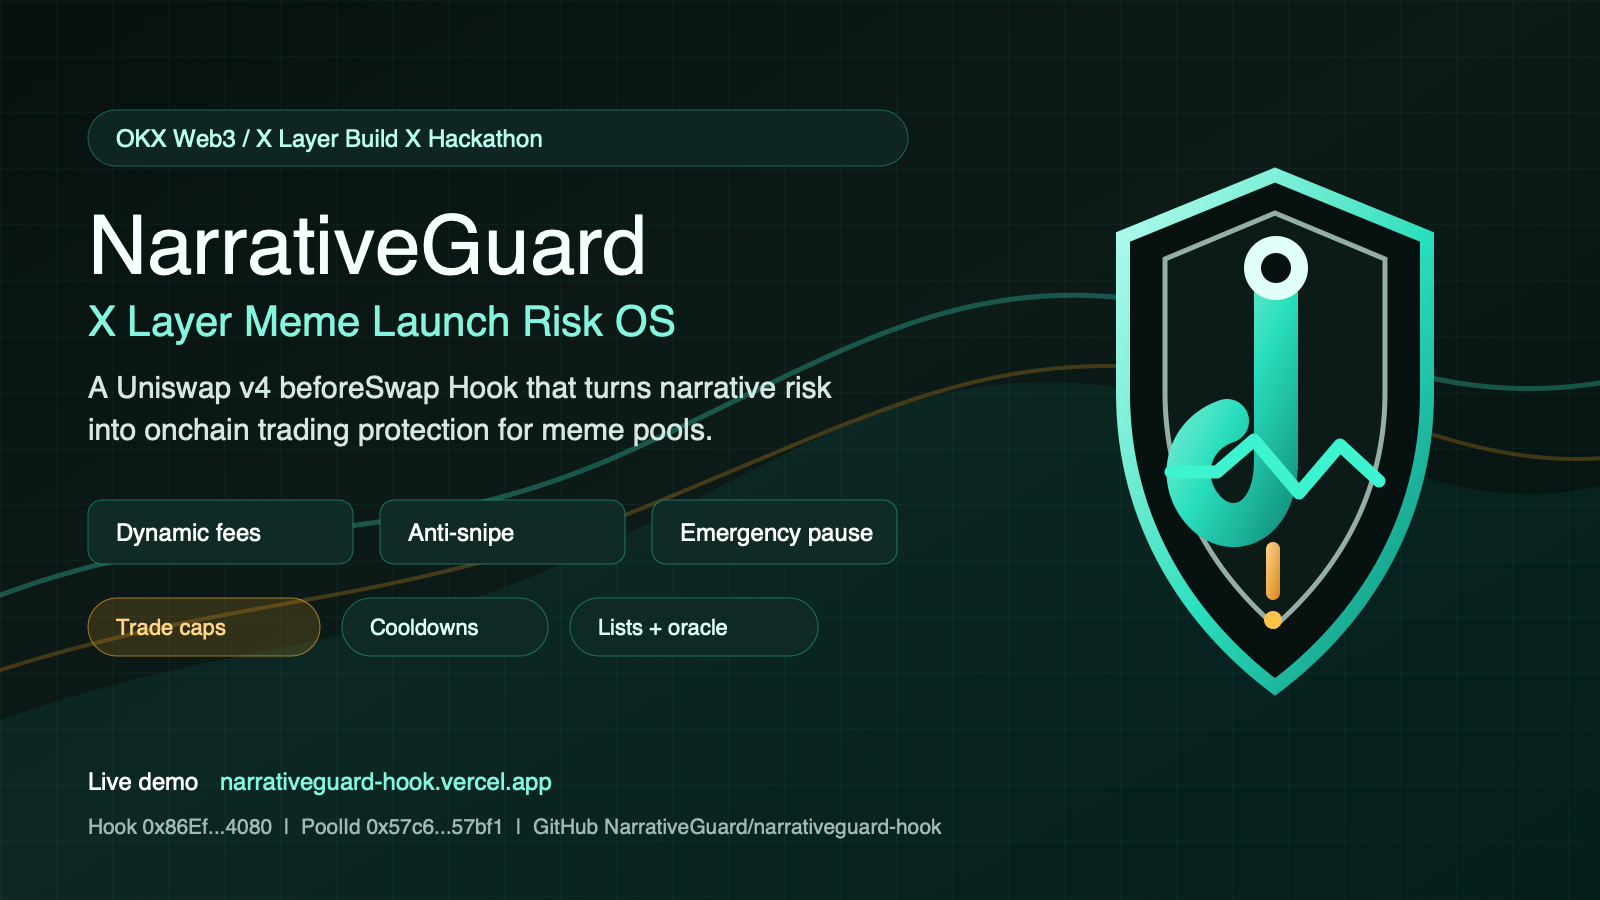
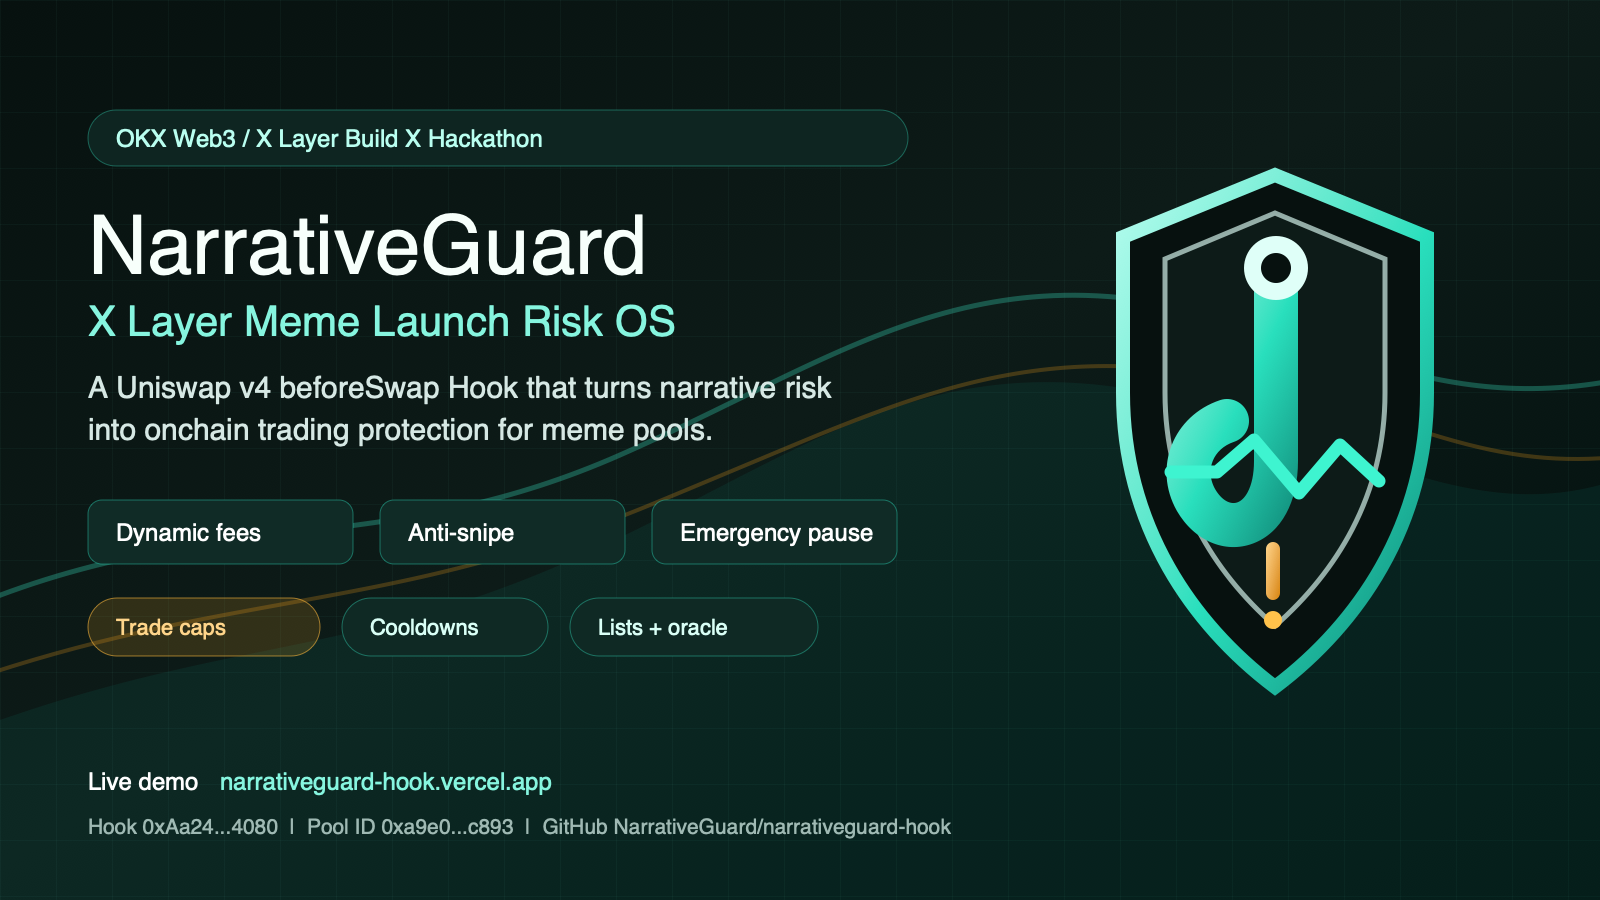
Update verified X Layer deployment

Changed region(s): [[0.0938, 0.9022, 0.5938, 0.9333]]

diff --git a/frontend/src/DeployPanel.jsx b/frontend/src/DeployPanel.jsx
@@ -84,13 +84,13 @@ const chains = {
 
 const CURRENT_XLAYER_DEPLOYMENT = {
   poolManager: "0x360E68faCcca8cA495c1B759Fd9EEe466db9FB32",
-  hook: "0x86Ef9197Bde5Dd40352D0a58589b1772376B4080",
+  hook: "0xAa242C1c9Dac355D6a66eA165E3Dfa96D0924080",
   demoToken0: "0x6213da9f111e2768fed4bf4875fa50001b7304ff",
   demoToken1: "0xb23f8a79e29113dc41e41cc75261713e5ffb1f0e",
[2 lines of base64/hex data omitted]
   riskOracle: "0xd87b33516ecb2ce135c1f99f5b5c8ec67cf235c4",
[4 lines of base64/hex data omitted]
 };
 
 function shortAddress(address) {

diff --git a/docs/XLAYER_MAINNET_DEPLOYMENT.md b/docs/XLAYER_MAINNET_DEPLOYMENT.md
@@ -1,26 +1,24 @@
 # X Layer Mainnet Deployment
 
-Deployment time: `2026-05-26T04:40:24.868Z`
+Deployment time: `2026-05-27T12:36:25.809Z`
 
 Network: X Layer mainnet  
 Chain ID: `196`
 
 Status: configured live demo deployment. The Hook below has code on X Layer, its policy is configured for the PoolId below, and the v4 pool initialization transaction succeeded.
 
-Important: a later CREATE2 Hook address was observed during QA at `0x517D1fB0Fc551B4622fC8d2815502e7D2d370080`, but that address is not the current public demo because no configured/initialized PoolId is recorded for it. Do not switch the frontend, README, or submission form to a new Hook address until the new Hook is configured and its v4 pool is initialized.
-
 ## Core Addresses
 
 Hook contract:
 
 ```text
-0x86Ef9197Bde5Dd40352D0a58589b1772376B4080
+0xAa242C1c9Dac355D6a66eA165E3Dfa96D0924080
 ```
 
 Explorer:
 
 ```text
-https://www.okx.com/web3/explorer/xlayer/address/0x86Ef9197Bde5Dd40352D0a58589b1772376B4080
+https://www.okx.com/web3/explorer/xlayer/address/0xAa242C1c9Dac355D6a66eA165E3Dfa96D0924080
 ```
 
 Uniswap v4 PoolManager:
@@ -38,7 +36,7 @@ https://www.okx.com/web3/explorer/xlayer/address/0x360E68faCcca8cA495c1B759Fd9EE
 V4 PoolId:
 
 ```text
[2 lines of base64/hex data omitted]
 ```
 
 Uniswap v4 pools live inside PoolManager storage and are identified by `PoolId`, not by a separate pool contract address.
@@ -48,67 +46,74 @@ Uniswap v4 pools live inside PoolManager storage and are identified by `PoolId`,
 Token0:
 
 ```text
-0x6213da9f111e2768fed4bf4875fa50001b7304ff
+0x6213da9f111E2768FEd4BF4875fA50001B7304FF
 ```
 
 Token1:
 
 ```text
-0xb23f8a79e29113dc41e41cc75261713e5ffb1f0e
+0xb23f8a79e29113Dc41E41cC75261713e5fFb1f0E
 ```
 
 ## Transactions
 
-Configure Hook policy:
+Deploy Hook:
 
 ```text
[2 lines of base64/hex data omitted]
 ```
 
 Explorer:
 
 ```text
-https://www.okx.com/web3/explorer/xlayer/tx/0xc18e335fe8d88c5d472485140dc9aeb667d91e981f543073916633711c4adac0
+https://www.okx.com/web3/explorer/xlayer/tx/0xff87423ccf7464befa20a6e5bd2f0f18fcb870dfe5bebcd966d21e952f558d2a
+```
+
+Configure Hook policy:
+
+```text
[1 lines of base64/hex data omitted]
+```
+
+Explorer:
+
+```text
+https://www.okx.com/web3/explorer/xlayer/tx/0x3212e9c6f91ffd770bceff07207446b279c0e8c3dd30d7d78c212b5548b84c15
 ```
 
 Initialize v4 pool:
 
 ```text
[2 lines of base64/hex data omitted]
 ```
 
 Explorer:
 
 ```text
-https://www.okx.com/web3/explorer/xlayer/tx/0xaa1cb8472066987c4e5763faba214a69fe2450339abb340baef179ef71917a44
+https://www.okx.com/web3/explorer/xlayer/tx/0xddf9684b8e64829b56836322d3a0c8acaedb2c0c7545d3eb3db49e2a281313a1
 ```
 
 ## RPC Verification
 
 Verified on X Layer RPC:
 
-- Hook code bytes: `8378`
+- Hook code bytes: `9221`
 - Token0 code bytes: `1880`
 - Token1 code bytes: `1880`
 - PoolManager code bytes: `24009`
 - Hook config for the PoolId: `enabled = true`
 - Hook risk score: `6500` bps
 - Hook quoted dynamic fee: `66050` pips
+- Hook deployment transaction status: `success`
 - Configure transaction status: `success`
 - Initialize transaction status: `success`
 
-## Hardened Candidate Observed During QA
+## Superseded QA Note
 
-This address has deployed code, but it is not the active demo/submission deployment:
+Earlier QA observed an unconfigured candidate Hook at:
 
 ```text
 0x517D1fB0Fc551B4622fC8d2815502e7D2d370080
 ```
 
-Deploy transaction:
-
-```text
[1 lines of base64/hex data omitted]
-```
-
-Current status: code present, owner/oracle/PoolManager checks readable, but the known public PoolId is not configured on this Hook. Activating it requires a wallet-signed `configurePool` transaction and a matching v4 pool initialization, followed by updates to `deployments/xlayerMainnet.json`, the frontend current-deployment constants, README, and submission docs.
+That address is not used for the public demo. The current Hook above is the refreshed deployment with successful Hook deploy, policy configuration, v4 pool initialization, and enabled PoolId verification.

diff --git a/docs/JUDGING_BRIEF.md b/docs/JUDGING_BRIEF.md
@@ -68,11 +68,11 @@ Completed deliverables:
 
 X Layer mainnet:
 
-- Hook: `0x86Ef9197Bde5Dd40352D0a58589b1772376B4080`
+- Hook: `0xAa242C1c9Dac355D6a66eA165E3Dfa96D0924080`
 - PoolManager: `0x360E68faCcca8cA495c1B759Fd9EEe466db9FB32`
[6 lines of base64/hex data omitted]
 
 The current public address is the configured live demo. Deployment scripts can refresh the public addresses from the current source if the final verification workflow requires exact latest-source bytecode matching, but the submitted address should only change after the new Hook is configured and its v4 pool is initialized.
 

diff --git a/docs/SUBMISSION.md b/docs/SUBMISSION.md
@@ -35,13 +35,13 @@ https://github.com/NarrativeGuard/narrativeguard-hook
 Hook:
 
 ```text
-0x86Ef9197Bde5Dd40352D0a58589b1772376B4080
+0xAa242C1c9Dac355D6a66eA165E3Dfa96D0924080
 ```
 
 V4 PoolId:
 
 ```text
[2 lines of base64/hex data omitted]
 ```
 
 PoolManager:
@@ -55,7 +55,7 @@ Deployment status: configured live demo. Use these addresses for the public demo
 Initialize pool tx:
 
 ```text
[2 lines of base64/hex data omitted]
 ```
 
 Full deployment notes: [XLAYER_MAINNET_DEPLOYMENT.md](XLAYER_MAINNET_DEPLOYMENT.md)

diff --git a/README.md b/README.md
@@ -106,13 +106,13 @@ If the source is redeployed for final bytecode/source alignment, update the fron
 Hook:
 
 ```text
-0x86Ef9197Bde5Dd40352D0a58589b1772376B4080
+0xAa242C1c9Dac355D6a66eA165E3Dfa96D0924080
 ```
 
 V4 PoolId:
 
 ```text
[2 lines of base64/hex data omitted]
 ```
 
 PoolManager:

diff --git a/docs/SUBMISSION_CHECKLIST.md b/docs/SUBMISSION_CHECKLIST.md
@@ -8,10 +8,10 @@ Deadline: **2026-05-28 23:59 UTC** / **2026-05-29 07:59 Asia/Shanghai**.
 
 - Uniswap v4 Hook project built during the hackathon period.
 - New Hook contract logic in this repository.
-- Hook contract deployed on X Layer mainnet: `0x86Ef9197Bde5Dd40352D0a58589b1772376B4080`.
+- Hook contract deployed on X Layer mainnet: `0xAa242C1c9Dac355D6a66eA165E3Dfa96D0924080`.
 - V4 Pool initialized on X Layer mainnet PoolManager.
 - Verifiable Hook contract address.
[2 lines of base64/hex data omitted]
 - Project repository link: `https://github.com/NarrativeGuard/narrativeguard-hook`.
 - Public Risk OS demo URL: `https://narrativeguard-hook.vercel.app`.
 - Dedicated X account for the project.

diff --git a/docs/AUDIT_NOTES.md b/docs/AUDIT_NOTES.md
@@ -43,7 +43,7 @@ This is an internal engineering review, not an independent third-party audit.
 
 ## External Audit Triage
 
-An external AI review correctly identified that a later Hook address, `0x517D1fB0Fc551B4622fC8d2815502e7D2d370080`, has deployed code but is not configured for the current public PoolId. The repository therefore keeps the configured live demo at `0x86Ef9197Bde5Dd40352D0a58589b1772376B4080` as the frontend default instead of routing users to an unconfigured fail-open Hook.
+An external AI review correctly identified that an earlier candidate Hook address, `0x517D1fB0Fc551B4622fC8d2815502e7D2d370080`, had deployed code but was not configured for the public PoolId. A refreshed Hook deployment is now configured and initialized at `0xAa242C1c9Dac355D6a66eA165E3Dfa96D0924080`, and the frontend default points to that enabled deployment.
 
 The same review flagged hardcoded activity transactions. The current frontend only falls back to the public configure/init transactions when the loaded Hook is the public deployment; fresh frontend deployments use the transaction hashes stored in React state.
 